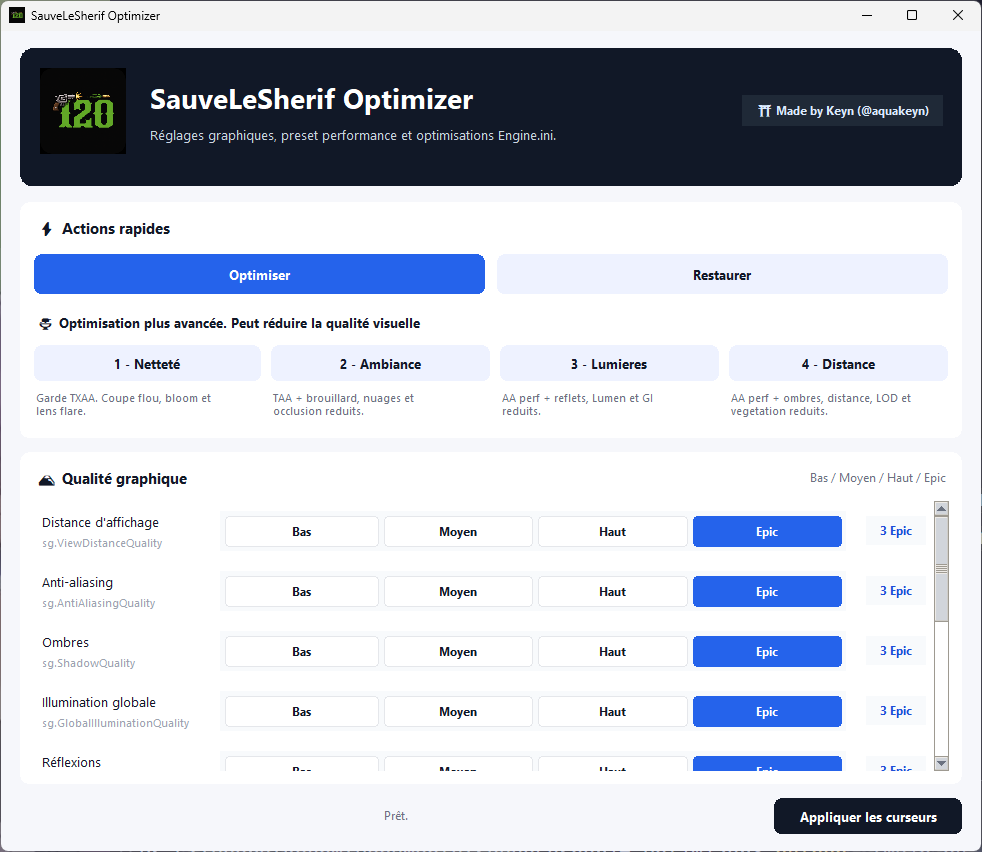
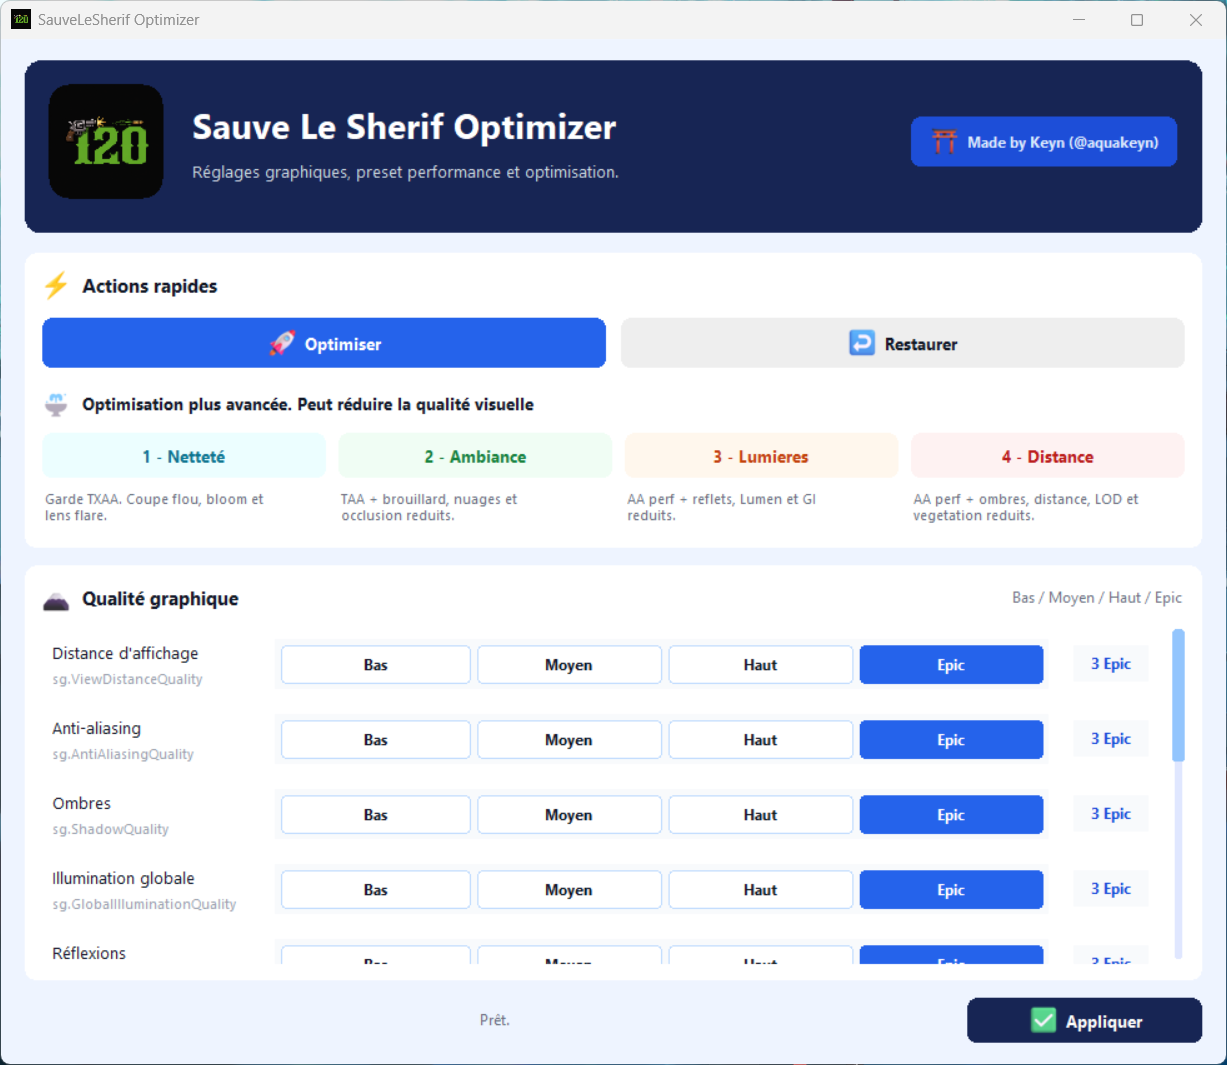
Maj du readme

diff --git a/README.md b/README.md
@@ -29,6 +29,23 @@ Le fichier modifié est celui du jeu, dans le dossier utilisateur Windows :
 %LOCALAPPDATA%\SauveLeSherif\Saved\Config\Windows\Engine.ini
 ```
 
+## Benchmark
+
+**Il est recommandé de n'utiliser les opti 1 à 4 qu'en complément des réglages en low, si ça ne suffit pas à rendre le jeu fluide.**  
+
+Voici mes tests personnels des différents profils. Gardez en tête que les optis 1, 2, 3 et 4 sont lancées avec l'opti (profil 0) actif.  
+Je tourne sur un portable avec une Rtx4060, un i7-13e gen et 16Go de RAM en DDR5.
+
+| Profil | FPS lobby | FPS in-game |
+| --- | ---: | ---: |
+| Jeu de base | 25 | 60 |
+| 0 - Optimiser | ~75 | 110 |
+| 0bis - Tout en low | 90 | 170 |
+| 1 - Netteté | ~70 | ~90 |
+| 2 - Ambiance + TAA | 85 | 120 |
+| 3 - Lumieres et reflets | 110 | 230 |
+| 4 - Distance et ombres | 110 | 230+ |
+
 ## 🛠️ Installation
 
 1. Télécharge la dernière version ici : [SauveLeSherif Optimizer - Download](https://github.com/keynaqua/SauveLeSheriff_Optimizer/releases/download/v1.0/SauveLeSherif_Optimizer.exe).
@@ -87,6 +104,7 @@ Les boutons **Optimisation supplementaire** servent si le preset de base ne suff
 4. **Distance et ombres** : methode AA 1, ombres, distance d'affichage, LOD, vegetation.
 
 L'application cree ou met a jour `Engine.ini`, puis le remet en lecture seule pour eviter que le jeu remplace les valeurs.
+
 
 ## ♻️ Reset des paramètres
 